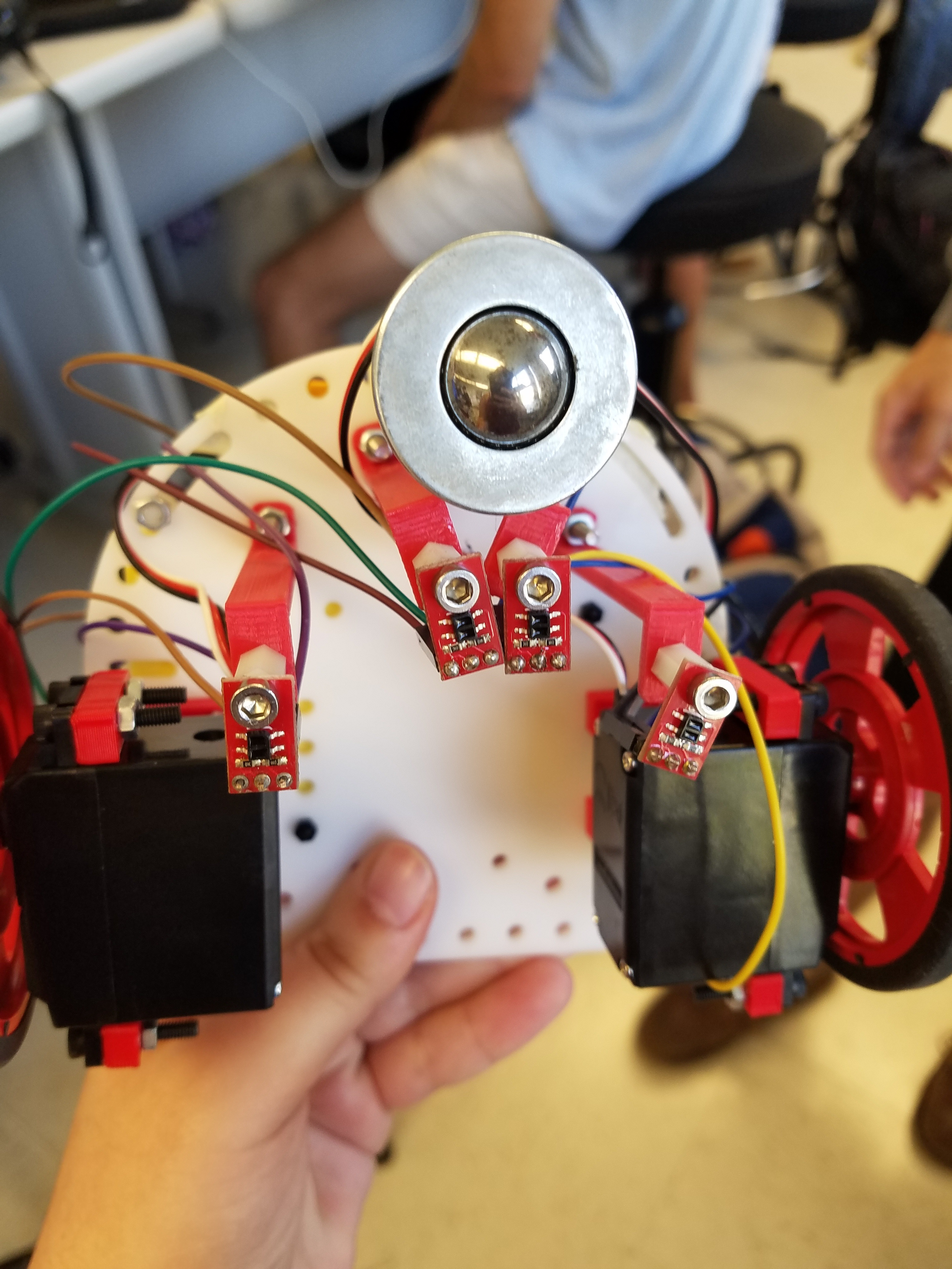
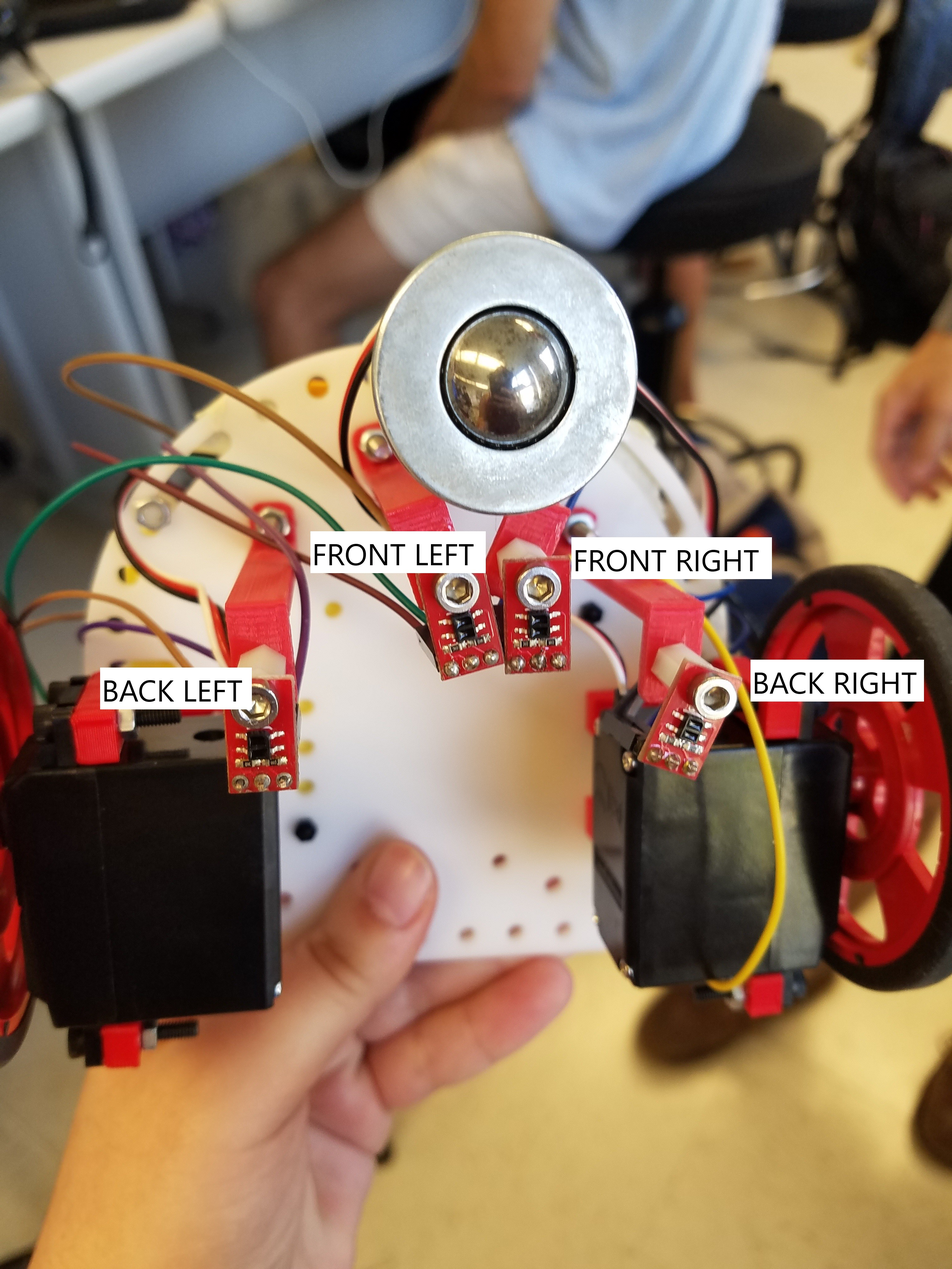
Milestone 1

diff --git a/docs/milestone1.html b/docs/milestone1.html
@@ -84,6 +84,12 @@
                 <div class="wrapper style2">
                     <div class="title">Robot Design</div>
                     <div id="highlights" class="container">
+                        <p>
+                            The following images show the current state of our robot. The 4 line sensors are mounted in the front, very close to the ground. We found that these
+                            sensors need to be only a few millimeters away to give the most accurate data. The battery, arduino, and breadboard with the necessary wiring are all
+                            mounted on the top of our robot.
+                        </p>
+
                         <center>
                             <a href="#">
                                 <img src="assets/images/milestone1_robot_front.jpg" alt="" style="width:512px;" />
@@ -95,18 +101,26 @@
                                 <img src="assets/images/milestone1_robot_side.jpg" alt="" style="width:512px;" />
                             </a>
                         </center>
-                        
-                        <center>
-                            <a href="#">
-                                <img src="assets/images/milestone1_robot_top.jpg" alt="" style="width:512px;" />
-                            </a>
-                        </center>
-                        
+
+                        <p>
+                            Below you can see the positioning of our 4 line sensors. The middle two (referred to as the front left and front right sensor) are used for line following 
+                            and should always be over a black line unless in the middle of a turn. The outer two sensors (referred to as the back left and right sensors) are used to detect junctions in the grid.
+                        </p>
+
                         <center>
                             <a href="#">
                                 <img src="assets/images/milestone1_line_sensors.jpg" alt="" style="width:512px;" />
                             </a>
                         </center>
+
+                        <header class="style1">
+                            <h2>Line Sensors</h2>
+                            <p>
+                            The line sensors added to our robot are small infa-red sensors the produce values between 0 and 1000. These values represent a grey scale.
+                            If the values are close to zero, then the sensor is detecting a white surface. If the values are close to 1000, then the sensor is detecting
+                            a black surface. These sensors are important when trying to follow a grid made of black tape.
+                            </p>
+                        </header>
                     </div>
                 </div>
 
@@ -114,9 +128,11 @@
                     <div class="title">Code Overview</div>
                     <div id="highlights" class="container">
                         <header class="style1">
-                            <h2>Setup</h2>
+                            <h2>Line Following</h2>
                             <p class="style1">
-                                Desccription of basic line following algorithm
+                                In order to follow a black line of tape we check the two middle sensors depicted earlier. If the front right sensor is not on the black line, but
+                                the front left is, we correct towards the left. If the front left sensor is not on the black line, but the front right is, we correct towards the 
+                                right. If they are both on the black line we simply continue moving forward.
                             </p>
                         </header>
                         <header class="style1">
@@ -124,7 +140,8 @@
                             <p class="style1">
                                 The main loop portion of our figure eight code involves a series of turns on the grid. First the robot moves forward until a junction is 
                                 detected. Then the robot turns left and moves forward until another junction is detected. This is followed by four right turns and 3 left 
-                                turns on the grid. This is repeated with each main loop iteration. To complete this algorithm we needed to implement functions to turn right, turn left, detect junctions, and line follow.
+                                turns on the grid. This is repeated with each main loop iteration. To complete this algorithm we needed to implement functions to turn right, turn left, detect junctions, line follow
+                                and step past junciton. These functions and their purpose are described in more detail below.
                                 In the future we would like to implement this portion of the code using three states: Start, Forward, and Junction. For now we simply have the 
                                 figure eight code that makes multiple calls to each function written out in the loop section.
                             </p>
@@ -132,45 +149,147 @@
                     </div>
                 </div>
 
-                <div id="footer-wrapper" class="wrapper">
+                <div class="wrapper style1">
                     <div class="title">Individual Functions</div>
-                    <div id="footer" class="container">
+                    <div id="highlights" class="container">
                         <header class="style1">
                             <h2>Turning</h2>
                         </header>
                         <p>
-                            Describe turn code
+                            Our turn functions allow us to turn off of one black line and onto anther.
+                            To turn, we set the servos to move in opposite directions. Since they are mounted opposite each other, we actually need to set the servos to the same value. For 
+                            left turns, the servos get set to 180, for right turns 0. We turn until the robot has returned to another black line. We do this by first ensuring that both
+                            the front left and right line sensors are no longer reading high values, meaning we have turned off of the black line. We found that we needed this portion of 
+                            the code because without it, the sensors would immediatley detect that we were on a black line and continue without turning. After moving off the line, we turn 
+                            until both of the front two line sensors detect another line. We then stop both wheels.
+                        </p>
                         <pre><code class="cpp">
-                            Turn code
+                            void turnRight(){
+                              leftWheel.write(180);
+                              rightWheel.write(180);
+                              //read the line sensors
+                              int FR = analogRead(FRlinepin);
+                              int FL = analogRead(FLlinepin);
+                              //Turn until we are no longer on the black line.
+                              while(FR > 800 || FL > 800) {
+                                FR = analogRead(FRlinepin);
+                                FL = analogRead(FLlinepin);
+                              }
+                              //Turn until we have reached another black line.
+                              while(FR < 800 || FL < 800) {
+                                FR = analogRead(FRlinepin);
+                                FL = analogRead(FLlinepin);
+                              }
+                              leftWheel.write(90);
+                              rightWheel.write(90); 
+                            }
                         </code></pre><br />
                         </p>
                         <header class="style1">
-                            <h2>Detect Junctions</h2>
+                            <h2>Detecting Junctions</h2>
                         </header>
                         <p>
-                            Describe juction code
+                            The detect junction function returns true if our robot registers an intersecting black line and false otherwise.
+                            If both the back right and left line sensors are producing high values, then they are detecting a new black line
+                            and a junction is detected.
                         </p>
                         <pre><code class="cpp">
-                            Junction code
+                            bool detectJunction(){
+                              //read back right and left sensors
+                              int BR = analogRead(BRlinepin);
+                              int BL = analogRead(BLlinepin);
+                              //return true if they both detect a black line
+                              if (BL>800 && BR>800){
+                                return true;
+                              }
+                              else{
+                                return false;
+                              }
+                            }
                         </code></pre><br />
                         <header class="style1">
+
                             <h2>Moving Forward</h2>
                         </header>
                         <p>
-                            Describe forward code
+                            In order to move forward, we first check the front two line sensors. If the Front right sensor produces a low value
+                            and the left sensor still detects the line, then we know we are vearing right. If the opposite occurs,
+                            then we are vearing left. In order to correct this vearing, we stop one wheel so that the robot moves back towards the line.
+                            If we are vearing left, we stop the right wheel, if we are vearing right, we stop the left wheel. If both sensors 
+                            are showing high values, meaning we are positoned properly on the line, we continue moving forward. "Left" and "right" are global variables
+                            that are initialized at 180 and 0 respectively. Those values correspond to the maximum forward speed of the wheels.
                         </p>
                         <pre><code class="cpp">
-                            Forward Code
+                            void moveForward(){
+                              //Front Right Line Sensor Value
+                              int FR = analogRead(FRlinepin);
+                              //Front Left Line Sensor Value
+                              int FL = analogRead(FLlinepin);
+
+                              if (FR > 800 && FL < 800) {
+                                right = 90;
+                              }
+                              else if (FR < 800 && FL > 800) {
+                                left = 90;
+                              }
+                              else {
+                                right = 0;
+                                left = 180;
+                              }
+                              Serial.println(FR);
+                              leftWheel.write(left);
+                              rightWheel.write(right);
+                            }
                         </code></pre><br />
-                        
-                        <iframe width="560" height="315" src="https://www.youtube.com/embed/fSBjJimdxRE" frameborder="0" allowfullscreen></iframe>
-                        
-                        <iframe width="560" height="315" src="https://www.youtube.com/embed/rmGsWfQhRnk" frameborder="0" allowfullscreen></iframe>
-                        
-                        <iframe width="560" height="315" src="https://www.youtube.com/embed/S-rvwFlB9s0" frameborder="0" allowfullscreen></iframe>
+
+                        <header class="style1">
+                            <h2>Step Past Junction</h2>
+                        </header>
+                        <p>
+                            Our team implemented this fucntion to optimize turning. We noticed that our axis of rotation did not perfectly line
+                            up with the center of the junction. We were turning just slightly prematurely and this would cause our robot to 
+                            not line up perfectly on the new black line. Our line following fucntion would correct the issue, but we wanted our robot
+                            to turn more smoothly. 
+                        </p>
+                        <p>
+
+                            We realized the issue was due to the fact that our back line sensors (the ones used to detect the junction) are slightly in front
+                            of our center of rotation, not in line with it. This meant that we detected the junction and turned a bit too early. To fix this,
+                            we wanted our robot to turn after the back left and right sensors had left the back line. This would line up our center of rotation
+                            with the center of the junction. After we detect a junction, this function is called and moves the robot forward until both of the 
+                            back line sensors detect white instead of black, meaning they have moved past the black line. 
+                        </p>
+                        <pre><code class="cpp">
+                            void stepPastJunction() {
+                              leftWheel.write(180);
+                              rightWheel.write(0);
+                              int BR = analogRead(BRlinepin);
+                              int BL = analogRead(BLlinepin);
+                              while(BR > 800 || BL > 800) {
+                                BR = analogRead(BRlinepin);
+                                BL = analogRead(BLlinepin);
+                              }
+                            }
+                        </code></pre><br />
+
                     </div>
                 </div>
 
+         <div id="footer-wrapper" class="wrapper">
+                    <div class="title">In Action</div>
+                    <div id="footer" class="container">
+                        <header class="style1">
+                            <h2>Line Following</h2>
+                                <iframe width="560" height="315" src="https://www.youtube.com/embed/fSBjJimdxRE" frameborder="0" allowfullscreen></iframe>
+                        </header>
+                        <header class="style1">
+                            <h2>Figure Eight Algorithm</h2>
+                                <iframe width="560" height="315" src="https://www.youtube.com/embed/rmGsWfQhRnk" frameborder="0" allowfullscreen></iframe>
+                        
+                                <iframe width="560" height="315" src="https://www.youtube.com/embed/S-rvwFlB9s0" frameborder="0" allowfullscreen></iframe>
+                        </header>
+                    </div>
+                </div>
         </div>
 
         <!-- Scripts -->
